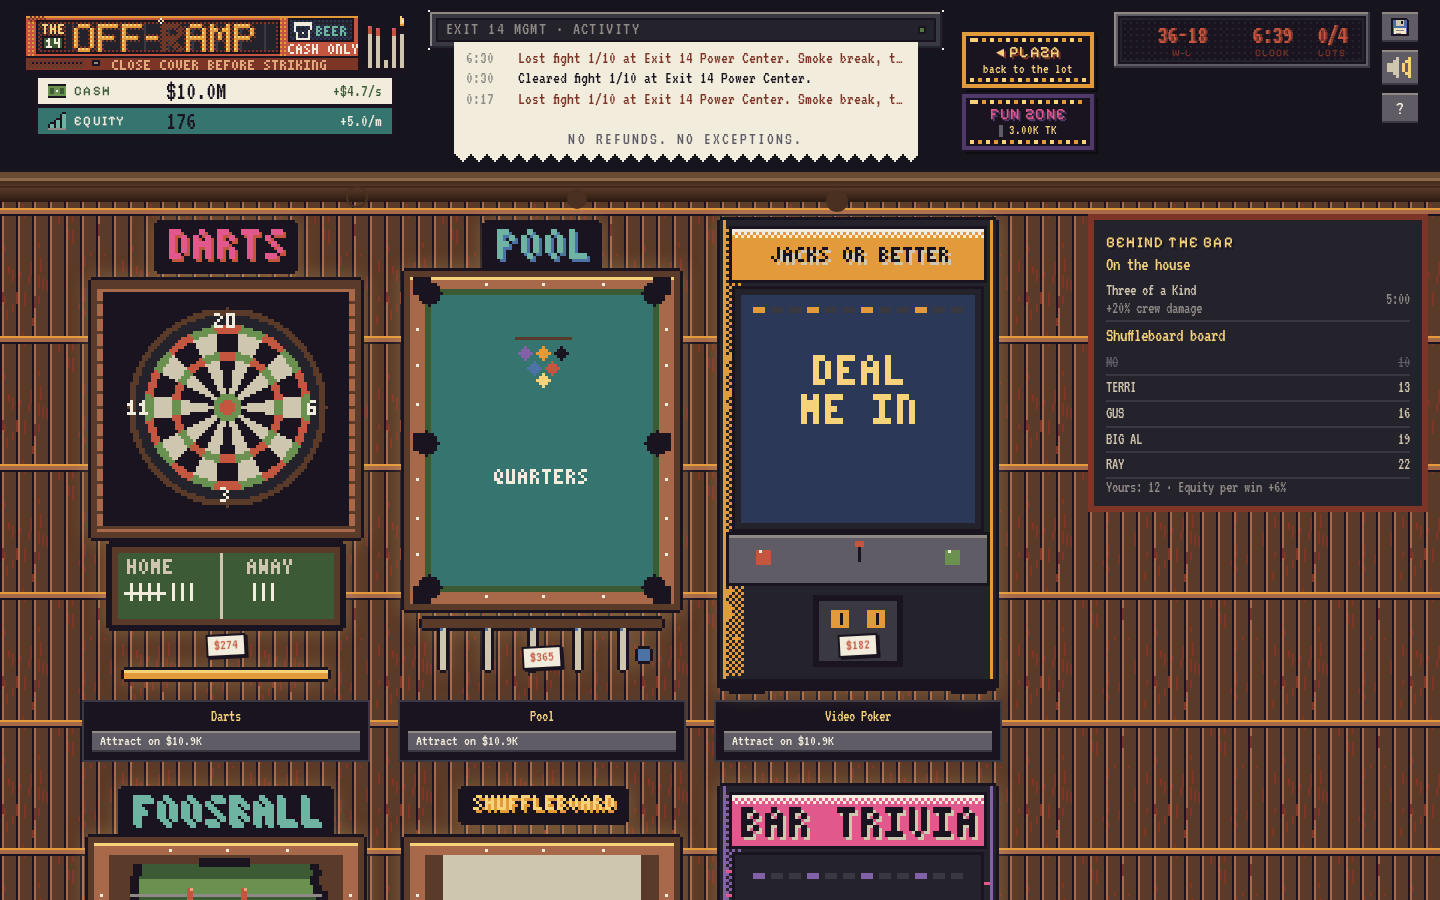
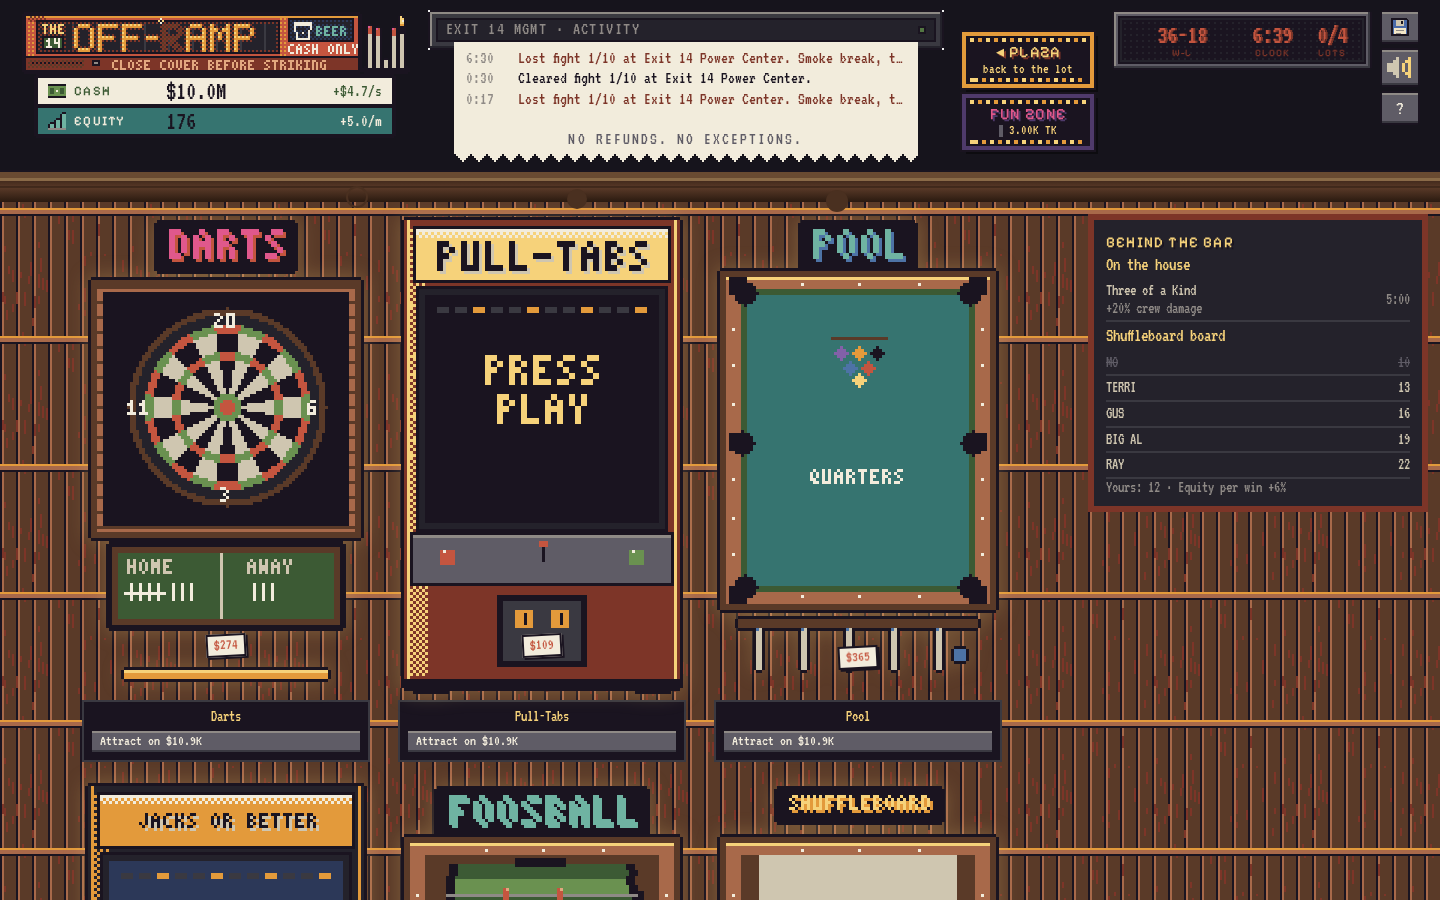
Off-Ramp: Pull-Tabs, Blackjack and Fairway 9

diff --git a/src/ui/bar3.ts b/src/ui/bar3.ts
@@ -1,0 +1,285 @@
+// The Off-Ramp's three new games: Pull-Tabs (bartop luck), Blackjack (a dealer, H / S) and Fairway 9 (cabinet golf).
+// Like every cabinet they only report q (0..1); room.ts pays. In-game money only.
+import { C } from '../art/palette';
+import { circle, type Game, type Pen } from './machines';
+
+const clamp = (v: number, a: number, b: number) => Math.max(a, Math.min(b, v));
+const tri = (t: number, period: number) => {
+  const x = (t / period) % 1;
+  return x < 0.5 ? x * 2 : 2 - x * 2;
+};
+
+// ---- Pull-Tabs: three tickets, three windows each. Three of a kind in a ticket wins it. ----
+const SYMS = ['7', 'BAR', 'CHRY', 'BELL', 'X'];
+const SYM_PAY = [1, 0.6, 0.4, 0.3, 0]; // share of a perfect play
+export function pullTabs(): Game {
+  // the house prints a few winners per box; most are blanks
+  const tickets = [0, 1, 2].map(() => {
+    const r = Math.random();
+    if (r < 0.04) return [0, 0, 0];
+    if (r < 0.12) return [1, 1, 1];
+    if (r < 0.24) return [2, 2, 2];
+    if (r < 0.4) return [3, 3, 3];
+    const a = Math.floor(Math.random() * 5);
+    let b = Math.floor(Math.random() * 5);
+    if (b === a) b = (b + 1) % 5;
+    return [a, b, Math.floor(Math.random() * 5)].sort(() => Math.random() - 0.5);
+  });
+  const open = tickets.map(() => [false, false, false]);
+  let end = -1, msg = 'PULL A TAB', won = 0;
+  const done = () => open.every((t) => t.every(Boolean));
+  const pull = (ti: number) => {
+    const w = open[ti].indexOf(false);
+    if (w < 0) return;
+    open[ti][w] = true;
+    if (open[ti].every(Boolean)) {
+      const [a, b, c] = tickets[ti];
+      const hit = a === b && b === c;
+      won += hit ? SYM_PAY[a] : 0;
+      msg = hit ? `${SYMS[a]} ${SYMS[a]} ${SYMS[a]}!` : 'NOTHING';
+    }
+    if (done()) ((end = 0), (g.q = clamp(won, 0, 1)), (g.label = won > 0 ? 'WINNER' : 'NO LUCK'));
+  };
+  const g: Game = {
+    over: false, q: 0,
+    update(dt) {
+      if (end >= 0 && (end += dt) > 1.6) g.over = true;
+    },
+    draw(p) {
+      p.rect(0, 0, p.w, p.h, C.umber);
+      for (let y = 0; y < p.h; y += 4) p.rect(0, y, p.w, 1, C.brick); // the bartop
+      tickets.forEach((t, ti) => {
+        const x = 3 + ti * 25;
+        p.rect(x, 6, 23, 52, C.ink).rect(x + 1, 7, 21, 50, ti === 1 ? C.sodiumLight : ti === 2 ? C.mint : C.neon);
+        p.text('LUCKY', x + 2, 9, C.ink);
+        t.forEach((sym, w) => {
+          const y = 18 + w * 12;
+          if (open[ti][w]) {
+            p.rect(x + 2, y, 19, 10, C.paper);
+            p.text(SYMS[sym].slice(0, 4), x + 3 + (4 - Math.min(4, SYMS[sym].length)) * 2, y + 3, sym === 0 ? C.red : C.ink);
+          } else {
+            p.rect(x + 2, y, 19, 10, C.stone);
+            for (let k = 0; k < 4; k++) p.rect(x + 3 + k * 5, y + 4, 3, 1, C.concrete); // the perforation
+          }
+        });
+      });
+      p.center(end >= 0 ? (g.label ?? '') : msg, 64, end >= 0 && won > 0 ? C.sodiumLight : C.paper);
+    },
+    down(x) {
+      if (end >= 0) return;
+      pull(clamp(Math.floor((x - 3) / 25), 0, 2));
+    },
+    up() {},
+    key(k, down) {
+      if (!down || end >= 0) return;
+      if (k === ' ') pull(open.findIndex((t) => t.includes(false)));
+      if (k === '1' || k === '2' || k === '3') pull(Number(k) - 1);
+    },
+  };
+  return g;
+}
+
+// ---- Blackjack: the bartender deals from a six-deck shoe. Hit or stand; dealer stands on 17. ----
+const RANK = ['A', '2', '3', '4', '5', '6', '7', '8', '9', '10', 'J', 'Q', 'K'];
+const valueOf = (hand: number[]) => {
+  let v = 0, aces = 0;
+  for (const c of hand) {
+    const r = c % 13;
+    v += r === 0 ? 11 : Math.min(10, r + 1);
+    if (r === 0) aces++;
+  }
+  while (v > 21 && aces--) v -= 10;
+  return v;
+};
+export const bjValue = valueOf;
+export function blackjack(): Game {
+  const shoe: number[] = [];
+  for (let d = 0; d < 6; d++) for (let c = 0; c < 52; c++) shoe.push(c);
+  for (let i = shoe.length - 1; i > 0; i--) {
+    const j = Math.floor(Math.random() * (i + 1));
+    [shoe[i], shoe[j]] = [shoe[j], shoe[i]];
+  }
+  const me = [shoe.pop()!, shoe.pop()!], house = [shoe.pop()!, shoe.pop()!];
+  let phase: 'you' | 'dealer' | 'done' = 'you', clock = 0, end = -1;
+  const settle = () => {
+    const a = valueOf(me), b = valueOf(house);
+    const bj = a === 21 && me.length === 2;
+    const [q, label] = a > 21 ? [0, 'BUST'] : bj && !(b === 21 && house.length === 2) ? [1, 'BLACKJACK'] : b > 21 || a > b ? [0.6, 'YOU WIN'] : a === b ? [0.25, 'PUSH'] : [0, 'HOUSE WINS'];
+    g.q = q;
+    g.label = label;
+    g.score = a;
+    phase = 'done';
+    end = 0;
+  };
+  if (valueOf(me) === 21) phase = 'dealer';
+  const hit = () => {
+    if (phase !== 'you') return;
+    me.push(shoe.pop()!);
+    if (valueOf(me) >= 21) phase = valueOf(me) > 21 ? (settle(), 'done') : 'dealer';
+  };
+  const stand = () => phase === 'you' && (phase = 'dealer');
+  const card = (p: Pen, c: number, x: number, y: number, down = false) => {
+    p.rect(x, y, 13, 18, C.ink);
+    if (down) return void p.rect(x + 1, y + 1, 11, 16, C.navy).rect(x + 3, y + 3, 7, 12, C.blue);
+    const red = Math.floor(c / 13) % 4 < 2;
+    p.rect(x + 1, y + 1, 11, 16, C.paper);
+    p.text(RANK[c % 13], x + 2, y + 2, red ? C.red : C.ink);
+    p.rect(x + 5, y + 10, 3, 3, red ? C.red : C.ink);
+  };
+  const g: Game = {
+    over: false, q: 0,
+    update(dt) {
+      if (end >= 0) return void ((end += dt) > 1.8 && (g.over = true));
+      if (phase !== 'dealer') return;
+      if ((clock += dt) < 0.55) return;
+      clock = 0;
+      if (valueOf(house) < 17) house.push(shoe.pop()!);
+      else settle();
+    },
+    draw(p) {
+      p.rect(0, 0, p.w, p.h, C.forest);
+      p.rect(2, 2, p.w - 4, p.h - 4, C.green).rect(3, 3, p.w - 6, p.h - 6, C.forest);
+      p.text('DEALER', 4, 4, C.sodiumLight);
+      house.forEach((c, i) => card(p, c, 4 + i * 9, 11, phase === 'you' && i === 1));
+      if (phase !== 'you') p.text(`${valueOf(house)}`, p.w - 14, 4, C.paper);
+      p.text('YOU', 4, 34, C.sodiumLight);
+      me.forEach((c, i) => card(p, c, 4 + i * 9, 41));
+      p.text(`${valueOf(me)}`, p.w - 14, 34, C.paper);
+      if (phase === 'you') {
+        p.rect(4, p.h - 13, 32, 10, C.ink).rect(5, p.h - 12, 30, 8, C.red);
+        p.text('HIT', 14, p.h - 10, C.paper);
+        p.rect(p.w - 36, p.h - 13, 32, 10, C.ink).rect(p.w - 35, p.h - 12, 30, 8, C.navy);
+        p.text('STAND', p.w - 30, p.h - 10, C.paper);
+      } else p.center(end >= 0 ? (g.label ?? '') : 'DEALER DRAWS', p.h - 11, C.sodiumLight);
+    },
+    down(x) {
+      if (x < 39) hit();
+      else stand();
+    },
+    up() {},
+    key(k, down) {
+      if (!down) return;
+      const low = k.toLowerCase();
+      if (low === 'h') hit();
+      if (low === 's') stand();
+    },
+  };
+  return g;
+}
+
+// ---- Fairway 9: a short nine on a cabinet. Aim (mouse, A/D), hold for power, the green slows you down. ----
+// Each hole: tee at the bottom, cup up top, a hazard in between. Par 2 a hole, 3 shots and you pick it up.
+interface Hole { cup: [number, number]; hazard: [number, number, number]; water: boolean }
+const HOLES: Hole[] = Array.from({ length: 9 }, (_, i) => ({
+  cup: [16 + ((i * 23) % 46), 9 + (i % 3) * 3],
+  hazard: [20 + ((i * 37 + 11) % 38), 30 + ((i * 7) % 14), 6 + (i % 3) * 2],
+  water: i % 2 === 1,
+}));
+const TEE: [number, number] = [39, 66];
+const ROLL = 34; // decel on the fairway, per second
+export function fairway(): Game {
+  let hole = 0, shots = 0, total = 0, aim = -Math.PI / 2, hold = -1, keyL = false, keyR = false, end = -1, msg = 'HOLE 1 PAR 2', pause = 0;
+  const ball = { x: TEE[0], y: TEE[1], vx: 0, vy: 0 };
+  let last = { x: TEE[0], y: TEE[1] };
+  const H = () => HOLES[hole];
+  const nextHole = (strokes: number, text: string) => {
+    total += strokes;
+    msg = text;
+    pause = 1;
+    hole++;
+    if (hole >= HOLES.length) {
+      end = 0;
+      g.score = total;
+      g.q = clamp((27 - total) / (27 - 14), 0, 1); // 14 or better is a perfect card
+      g.label = `${total} (${total - 18 >= 0 ? '+' : ''}${total - 18})`;
+      return;
+    }
+    Object.assign(ball, { x: TEE[0], y: TEE[1], vx: 0, vy: 0 });
+    shots = 0;
+    aim = Math.atan2(H().cup[1] - TEE[1], H().cup[0] - TEE[0]);
+  };
+  aim = Math.atan2(H().cup[1] - TEE[1], H().cup[0] - TEE[0]);
+  const rolling = () => Math.hypot(ball.vx, ball.vy) > 0.5;
+  const g: Game = {
+    over: false, q: 0,
+    update(dt) {
+      if (end >= 0) return void ((end += dt) > 1.8 && (g.over = true));
+      if (pause > 0) return void ((pause -= dt) <= 0 && (msg = ''));
+      if (hold >= 0) hold += dt;
+      if (keyL) aim -= 1.6 * dt;
+      if (keyR) aim += 1.6 * dt;
+      if (!rolling()) return;
+      const h = H();
+      const [hx, hy, hr] = h.hazard;
+      const inHaz = Math.hypot(ball.x - hx, ball.y - hy) < hr;
+      const v = Math.hypot(ball.vx, ball.vy);
+      const dec = (inHaz && !h.water ? ROLL * 4 : ROLL) * dt;
+      const nv = Math.max(0, v - dec);
+      ball.vx *= nv / v;
+      ball.vy *= nv / v;
+      ball.x += ball.vx * dt;
+      ball.y += ball.vy * dt;
+      if (ball.x < 2 || ball.x > 76) ((ball.vx = -ball.vx * 0.6), (ball.x = clamp(ball.x, 2, 76)));
+      if (ball.y < 2 || ball.y > 72) ((ball.vy = -ball.vy * 0.6), (ball.y = clamp(ball.y, 2, 72)));
+      const dc = Math.hypot(ball.x - h.cup[0], ball.y - h.cup[1]);
+      if (dc < 2.2 && nv < 40) return nextHole(shots, shots === 1 ? 'ACE!' : shots === 2 ? 'PAR' : 'BOGEY');
+      if (inHaz && h.water) {
+        // in the drink: a stroke and back to where you hit it from
+        shots++;
+        Object.assign(ball, { x: last.x, y: last.y, vx: 0, vy: 0 });
+        msg = 'WATER +1';
+        pause = 0.8;
+        if (shots >= 3) return nextHole(4, 'PICKED UP');
+        return;
+      }
+      if (!rolling() && shots >= 3) nextHole(4, 'PICKED UP');
+    },
+    draw(p) {
+      const h = H() ?? HOLES[8];
+      p.rect(0, 0, p.w, p.h, C.forest);
+      for (let y = 0; y < p.h; y += 6) p.rect(0, y, p.w, 3, C.green); // mowed stripes
+      circle(p, h.cup[0], h.cup[1], 7, C.mint); // the green
+      const [hx, hy, hr] = h.hazard;
+      circle(p, hx, hy, hr, h.water ? C.blue : C.tan);
+      if (h.water) p.rect(hx - 2, hy - 1, 4, 1, C.paper);
+      circle(p, h.cup[0], h.cup[1], 1, C.ink);
+      p.rect(h.cup[0], h.cup[1] - 7, 1, 6, C.paper).rect(h.cup[0] + 1, h.cup[1] - 7, 3, 2, C.red); // the flag
+      p.rect(TEE[0] - 3, TEE[1] + 2, 7, 2, C.tan);
+      if (!rolling() && end < 0 && pause <= 0) {
+        for (let k = 2; k < 14; k += 3) p.rect(Math.round(ball.x + Math.cos(aim) * k), Math.round(ball.y + Math.sin(aim) * k), 1, 1, C.paper);
+        const m = hold >= 0 ? tri(hold, 1.6) : 0;
+        p.rect(p.w - 5, 30, 4, 42, C.ink);
+        p.rect(p.w - 4, 71 - Math.round(m * 40), 2, Math.round(m * 40), C.red);
+      }
+      p.rect(Math.round(ball.x) - 1, Math.round(ball.y) - 1, 2, 2, C.paper);
+      p.text(`H${Math.min(9, hole + 1)} ${total}`, 2, 2, C.paper);
+      if (end >= 0) (p.rect(0, 30, p.w, 11, C.ink), p.center(g.label ?? '', 33, C.sodiumLight));
+      else if (msg) p.center(msg, 33, C.sodiumLight);
+    },
+    move(x, y) {
+      if (hold < 0 && !rolling()) aim = Math.atan2(y - ball.y, x - ball.x);
+    },
+    down(x, y) {
+      if (end >= 0 || pause > 0 || rolling()) return;
+      if (x > -900) g.move?.(x, y);
+      hold = 0;
+    },
+    up() {
+      if (hold < 0) return;
+      const pow = tri(hold, 1.6);
+      hold = -1;
+      const v = 18 + pow * 70;
+      last = { x: ball.x, y: ball.y };
+      ball.vx = Math.cos(aim) * v;
+      ball.vy = Math.sin(aim) * v;
+      shots++;
+    },
+    key(k, down) {
+      const low = k.toLowerCase();
+      if (low === 'a' || k === 'ArrowLeft') keyL = down;
+      if (low === 'd' || k === 'ArrowRight') keyR = down;
+      if (k === ' ') down ? hold < 0 && g.down(-999, -999) : g.up(0, 0);
+    },
+  };
+  return g;
+}

diff --git a/src/game/room.ts b/src/game/room.ts
@@ -8,7 +8,7 @@ import { asphaltMult, bal, cleared, earn, log, rentPerSec, spend } from './econo
 import { rand } from './rng';
 import type { GameState } from './state';
 
-export type MachineId = 'pusher' | 'whac' | 'skee' | 'claw' | 'pinball' | 'cyclone' | 'darts' | 'pool' | 'poker' | 'foos' | 'shuffle' | 'trivia';
+export type MachineId = 'pusher' | 'whac' | 'skee' | 'claw' | 'pinball' | 'cyclone' | 'darts' | 'pool' | 'poker' | 'foos' | 'shuffle' | 'trivia' | 'tabs' | 'blackjack' | 'fairway';
 export type BuffKind = 'bat' | 'duck' | 'troll' | 'ball' | 'watch' | 'well' | 'call' | 'top' | 'royal' | 'quiz' | 'genius' | 'shot';
 export type Cost = { cur: Currency | 'tickets'; n: number };
 export interface Reward { cash?: number; goodwill?: number; tickets?: number; equity?: number; buff?: BuffKind; big?: boolean; text: string }
@@ -144,6 +144,10 @@ export const MACHINES: MachineDef[] = [
     },
   },
   {
+    id: 'tabs', region: 1, name: 'Pull-Tabs', blurb: 'Three tickets from the box. Pull every tab; three alike pays.', needs: DAWN.needsOffRamp, unlock: offRamp, cost: rentCost(6, 1), secs: 8, cool: 0,
+    pay: (s, q) => (q > 0 ? { cash: bypassRent(s) * 18 * q, big: q >= 1, text: q >= 1 ? 'Three sevens. The bartender checks it twice.' : 'A winner.' } : { text: 'Blanks. Into the bucket.' }),
+  },
+  {
     id: 'pool', region: 1, name: 'Pool', blurb: 'Drag back from the cue ball. Six shots.', needs: DAWN.needsExit14, unlock: or((s) => cleared(s, 1, 0, REGIONS[1].lots[0].fights)), cost: rentCost(20, 1), secs: 45, cool: 180,
     pay: (s, q) => {
       const balls = Math.round(q * 6);
@@ -167,6 +171,14 @@ export const MACHINES: MachineDef[] = [
   {
     id: 'shuffle', region: 1, name: 'Shuffleboard', blurb: 'Six pucks against the house. Aim, hold for power, knock his off. The far end is worth more.', needs: 'Capture Town Center, Phase II', unlock: or((s) => cleared(s, 1, 2, REGIONS[1].lots[2].fights)), cost: rentCost(15, 1), secs: 30, cool: 0,
     pay: (s, q) => ({ equity: winPay(s, 1) * 2 * q, text: `${Math.round(q * SHUFFLE_TOP)} points.` }),
+  },
+  {
+    id: 'blackjack', region: 1, name: 'Blackjack', blurb: 'The bartender deals. Hit or stand (H / S); the house stands on 17.', needs: 'Clear fight 4 at the Corporate Campus', unlock: or((s) => cleared(s, 1, 1, 3)), cost: rentCost(20, 1), secs: 15, cool: 0,
+    pay: (s, q) => (q > 0 ? { cash: bypassRent(s) * 20 * (q >= 1 ? 3.5 : q >= 0.5 ? 2.2 : 1), big: q >= 1, text: q >= 1 ? 'Blackjack.' : q >= 0.5 ? 'Beat the house.' : 'Push. Your money back.' } : { text: 'The house wins.' }),
+  },
+  {
+    id: 'fairway', region: 1, name: 'Fairway 9', blurb: 'A short nine. Aim, hold for power. Par 18; water costs a stroke.', needs: 'Clear fight 4 at Town Center, Phase II', unlock: or((s) => cleared(s, 1, 2, 3)), cost: rentCost(20, 1), secs: 60, cool: 0,
+    pay: (s, q) => ({ equity: winPay(s, 1) * 7 * q, big: q >= 1, text: q >= 1 ? 'Under par. The regulars want to see the card.' : q > 0.5 ? 'A decent card.' : 'Lost a few balls.' }),
   },
   {
     id: 'trivia', region: 1, name: 'Bar Trivia', blurb: 'Five questions. Faster is more points.', needs: DAWN.needsGalleria, unlock: or((s) => cleared(s, 1, 3, 5)), cost: rentCost(10, 1), secs: 50, cool: 600,

diff --git a/src/ui/GameRoom.tsx b/src/ui/GameRoom.tsx
@@ -28,6 +28,9 @@ export const LOOKS: Record<MachineId, CabinetLook> = {
   foos: { body: C.umber, trim: C.mint, marquee: C.mint, ink: C.paper, title: 'FOOSBALL', side: 'dots', tall: true, bar: 'foos' },
   shuffle: { body: C.umber, trim: C.sodium, marquee: C.sodiumLight, ink: C.paper, title: 'SHUFFLEBOARD', side: 'dots', tall: true, bar: 'shuffle' },
   trivia: { body: C.night, trim: C.violet, marquee: C.neon, ink: C.ink, title: 'BAR TRIVIA', side: 'stripes' },
+  tabs: { body: C.brick, trim: C.sodiumLight, marquee: C.sodiumLight, ink: C.ink, title: 'PULL-TABS', side: 'dots' },
+  blackjack: { body: C.forest, trim: C.sodium, marquee: C.paper, ink: C.forest, title: 'BLACKJACK', side: 'stars' },
+  fairway: { body: C.navy, trim: C.green, marquee: C.mint, ink: C.navy, title: 'FAIRWAY 9', side: 'stripes' },
 };
 const BAR_IDS = new Set([...BAR_BUFFS, ...QUIZ].map(([b]) => b));
 // The hand that earned each poker buff (saved in room.hands): a flush pays like trips, so show the real hand.
@@ -130,7 +133,7 @@ function Cabinet({ m }: { m: MachineDef }) {
         rs.until = performance.now();
         return;
       }
-      if (game.current?.key && (e.key === 'a' || e.key === 'A' || e.key === 'd' || e.key === 'D' || e.key === 'ArrowLeft' || e.key === 'ArrowRight' || e.key === ' ' || e.key === 'ArrowUp' || e.key === 'w' || e.key === 'W')) {
+      if (game.current?.key && (e.key === 'a' || e.key === 'A' || e.key === 'd' || e.key === 'D' || e.key === 'ArrowLeft' || e.key === 'ArrowRight' || e.key === ' ' || e.key === 'ArrowUp' || 'wWhHsS123'.includes(e.key))) {
         if (e.repeat) return e.preventDefault();
         e.preventDefault();
         game.current.key(e.key, e.type === 'keydown');

diff --git a/scripts/check.ts b/scripts/check.ts
@@ -313,7 +313,7 @@ check('advance stops at the frontier', advance(s, 0, 1) === null && advance(s, 0
   check('hands: royal, full house, jacks, low pair', handTier([12, 11, 10, 9, 8]).join() === '4,ROYAL FLUSH' && handTier([0, 13, 26, 1, 14])[0] === 3 && handTier([9, 22, 2, 30, 45])[0] === 1 && handTier([0, 13, 5, 30, 45])[0] === 0);
   const s0 = slotsOf(t, 1);
   check('shuffleboard: each house score is +6% Equity per win, the third adds a slot', postShuffle(t, 14) === 2 && slotsOf(t, 1) === s0 && postShuffle(t, 17) === 1 && slotsOf(t, 1) === s0 + 1);
-  check('six at the bar, like the arcade', MACHINES.filter((m) => m.region === 1).length === 6 && MACHINES.filter((m) => m.region === 0).length === 6);
+  check('nine at the bar (the Bypass is longer), six in the arcade', MACHINES.filter((m) => m.region === 1).length === 9 && MACHINES.filter((m) => m.region === 0).length === 6);
   t.room.unlocked.push('foos', 'trivia');
   const e0 = t.equity;
   check('foosball pays Equity by the goal', startPlay(t, 'foos') === null && (endPlay(t, 'foos', 0.3), t.equity > e0));

diff --git a/src/debug.ts b/src/debug.ts
@@ -62,7 +62,7 @@ export function applyDebug(q: URLSearchParams) {
     app.s.room.best = 31250;
     app.s.room.buffs = { bat: 420 };
     app.s.crews[0].cash = Math.max(app.s.crews[0].cash, 1e6);
-    if (app.s.bypass) (app.s.crews[1].shops.offramp ??= 3), app.s.room.unlocked.push('darts', 'pool', 'poker', 'foos', 'shuffle', 'trivia'), (app.s.room.shuffle = 1), (app.s.room.shuffleBest = 12), (app.s.room.buffs.call = 300), (app.s.crews[1].cash = Math.max(app.s.crews[1].cash, 1e7));
+    if (app.s.bypass) (app.s.crews[1].shops.offramp ??= 3), app.s.room.unlocked.push('darts', 'tabs', 'pool', 'poker', 'foos', 'shuffle', 'blackjack', 'fairway', 'trivia'), (app.s.room.shuffle = 1), (app.s.room.shuffleBest = 12), (app.s.room.buffs.call = 300), (app.s.crews[1].cash = Math.max(app.s.crews[1].cash, 1e7));
   }
   if (q.get('landmarks') === '1') {
     app.hasSave = true;

diff --git a/src/ui/machines.ts b/src/ui/machines.ts
@@ -6,6 +6,7 @@ import { foos, foosIdle, trivia, triviaIdle } from './bargames';
 import { BAR_HOUSE, HOUSE_SCORES, PINBALL_TOP, type BuffKind, type MachineId, type PusherField } from '../game/room';
 import { clawV2, pinballV2, pusherV2, whacV2 } from './arcade';
 import { shuffleV2 } from './shuffle';
+import { blackjack, fairway, pullTabs } from './bar3';
 
 export interface Pen {
   rect(x: number, y: number, w: number, h: number, c: number): Pen;
@@ -743,6 +744,9 @@ export function newGame(id: MachineId, o: { shelf: number; speed: number; jackpo
     case 'shuffle': return shuffleV2(o.house);
     case 'foos': return foos();
     case 'trivia': return trivia();
+    case 'tabs': return pullTabs();
+    case 'blackjack': return blackjack();
+    case 'fairway': return fairway();
   }
 }
 

diff --git a/docs/V09_PROGRESS.md b/docs/V09_PROGRESS.md
@@ -24,6 +24,7 @@ Plans: `docs/V09_POLISH.md` (b8de1e9) and `docs/V09_BYPASS.md` (45f76d3), alread
 - Save popup: the top-right ✕ (redundant with the sign click) is now a floppy (`.boot-door.save`, inline SVG in `Pylon.tsx`) that opens `SavePopup` (`Screens.tsx`, `app.savePop`, Esc closes) with the same `SaveBox`: selectable code textarea (select-on-focus), Copy, Load. Boot screen keeps its box. Back Office has no lease code. Shot: `screenshots/v9/<size>/32-save-popup.png`. `scripts/screenshots.mjs` takes `ONLY=regex`.
 - Battle hand-off (visual only, `ui/Field.tsx` `trails`): the one regroup tick between two fights keeps drawing the last fight (no blink), a group that was waiting in line steps up from its line spot over `STEP_UP` 0.6s instead of popping in, and the last group's fallen finish fading. Sim / battle timing untouched (guard unchanged).
 - P2 chunk 1: Shuffleboard is `ui/shuffle.ts` (`shuffleV2`): 2.5D lane, real puck physics (`slide`, collisions, gutters, off the end), you throw 6 blue, the house (next unbeaten `BAR_HOUSE` name) throws 3 red and goes after your best puck; aim by mouse / A/D / arrows, hold or Space for power on a visible meter; only your pucks score (q = score / SHUFFLE_TOP as before). Old flat `shuffle()` deleted from `machines.ts`. Foosball (`bargames.ts`): 2.5D perspective table, A/D/arrows slide your rods, Space / W / Up shoots, tap still works. `GameRoom` forwards Space / W / Up too (repeat ignored). Checks: a measured throw parks in the 3; a hard red throw knocks it out. Shots `33-bar-foos-play`, `34-bar-shuffle-play`. Darts / pool / poker / trivia 2.5D not redone yet.
+- P2 chunk 2: three new bar games in `ui/bar3.ts`, registered in `room.ts` MACHINES (bar now 9, check updated), `GameRoom` LOOKS, `machines.ts` newGame, `debug.ts` room=full. Pull-Tabs (`tabs`, with the Off-Ramp lease, 6s rent, pays 18× rent × q; three tickets, three windows, 3-alike wins; keys 1/2/3/Space), Blackjack (`blackjack`, Corporate Campus fight 4, 20s rent; win 2.2×, blackjack 3.5×, push 1×; H/S or tap HIT/STAND), Fairway 9 (`fairway`, Town Center Phase II fight 4, 20s rent, Equity winPay×7×q; nine fixed holes, par 18, water +1, pick up after 3; aim by mouse or A/D, hold/Space for power). Not in the official bot's BAR_MIX (Bypass pacing re-check is M4). Grapevine drops not wired yet. Shots `35-bar-tabs`, `36-bar-blackjack`, `37-bar-fairway`.
 - Known, not fixed: at 390×844 the top bar is wider than the screen (receipt / LED board scroll off to the right), same as before.
 - `bun scripts/check.ts`: all good, including leak checks.
 - `bun scripts/balance.ts --guard` (Route 9 15h±1; CI 14–16h, active 11–15.5h, losses 10–30%, frontier ≤50%, boss tries ≤12):
@@ -39,7 +40,7 @@ Plans: `docs/V09_POLISH.md` (b8de1e9) and `docs/V09_BYPASS.md` (45f76d3), alread
 
 ## Next (P2, in order; push live after each checked chunk)
 
-1. (done: shuffleboard + foosball; darts/pool/poker/trivia 2.5D still open, low priority). 2. Pull-Tabs, Blackjack, Fairway 9. 3. Grapevine rumor slips (strings in `dawn.ts`). 4. Hotkeys in How to Play. 5. High-stakes tables. 6. Trivia batches toward 1,200+. Then P3 = M4 Bypass, bump 0.9.0, tag v0.9.
+1. (done: shuffleboard + foosball; darts/pool/poker/trivia 2.5D still open, low priority). 2. (done) Pull-Tabs, Blackjack, Fairway 9. 3. Grapevine rumor slips (strings in `dawn.ts`). 4. Hotkeys in How to Play. 5. High-stakes tables. 6. Trivia batches toward 1,200+. Then P3 = M4 Bypass, bump 0.9.0, tag v0.9.
 
 ---
 
